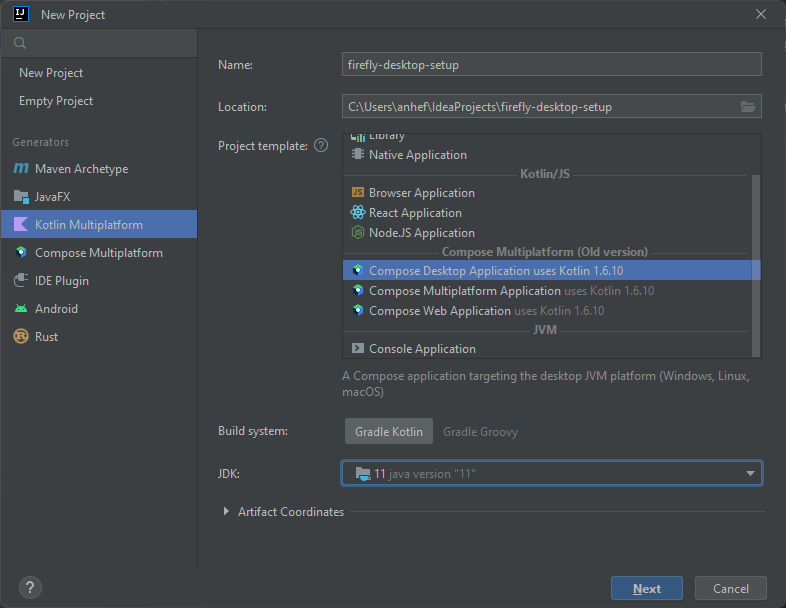
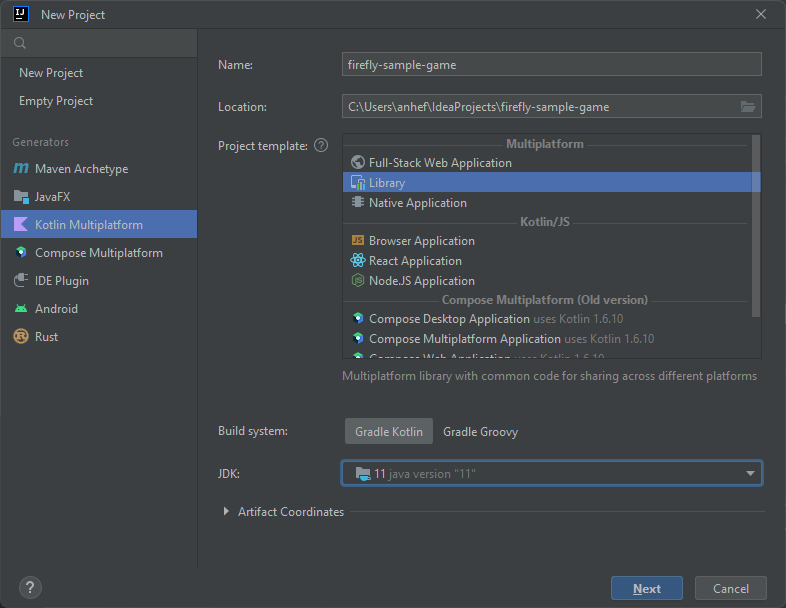
setup

diff --git a/docs/source/setup_jvm.rst b/docs/source/setup_jvm.rst
@@ -13,15 +13,29 @@ In your Intellij IDE go to the :guilabel:`File` menu, :guilabel:`New` and choose
    :align: center
    :alt: Create new Fly-Ko-Lib project
 
-In the setup dialog select :guilabel:`Kotlin Multiplatform`. Name your project and use :guilabel:`Compose Desktop Application uses Kotlin`
+In the setup dialog select :guilabel:`Kotlin Multiplatform`. Name your project and use :guilabel:`Library` from the
+Multiplatform section (or :guilabel:`Console Application` if you want to setup a desktop only project)
 This guide will use :guilabel:`Gradle Kotlin` for building the project so we recommend to stick with that.
 The JDK version here is not that important at the moment. Just stick with your favorite JDK version.
+
 
 .. figure:: /img/setup1.png
    :align: center
    :alt: Setup Kotlin Multiplatform for JVM
 
-Click next and choose :guilabel:`Compose Desktop Module` as a template. Also select the JVM target version that you
-prefer. We recommend Java 1.
+
+Click next and remove the :guilabel:`js` and :guilabel:`native` target from the target list.
+
+
+.. figure:: /img/setup2.png
+   :align: center
+   :alt: Setup Kotlin Multiplatform for JVM
+
+Then click on :guilabel:`Finish` To create the empty project. You should get something like the following:
+
+
+.. figure:: /img/setup3.png
+   :align: center
+   :alt: Setup Kotlin Multiplatform for JVM
 
 
